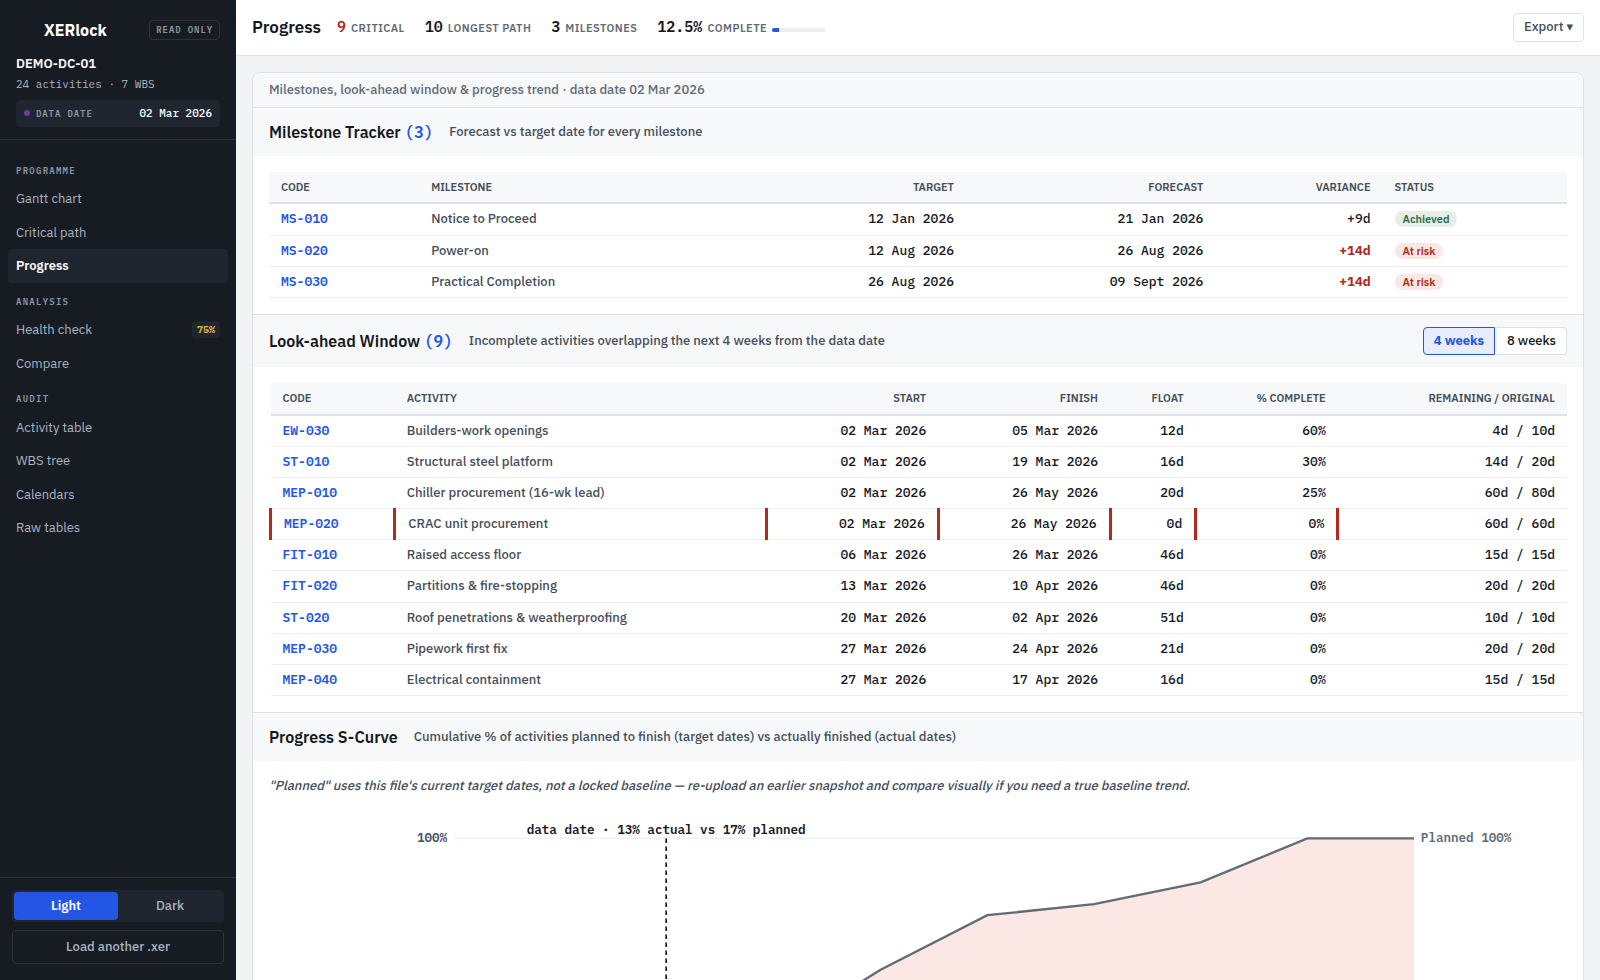
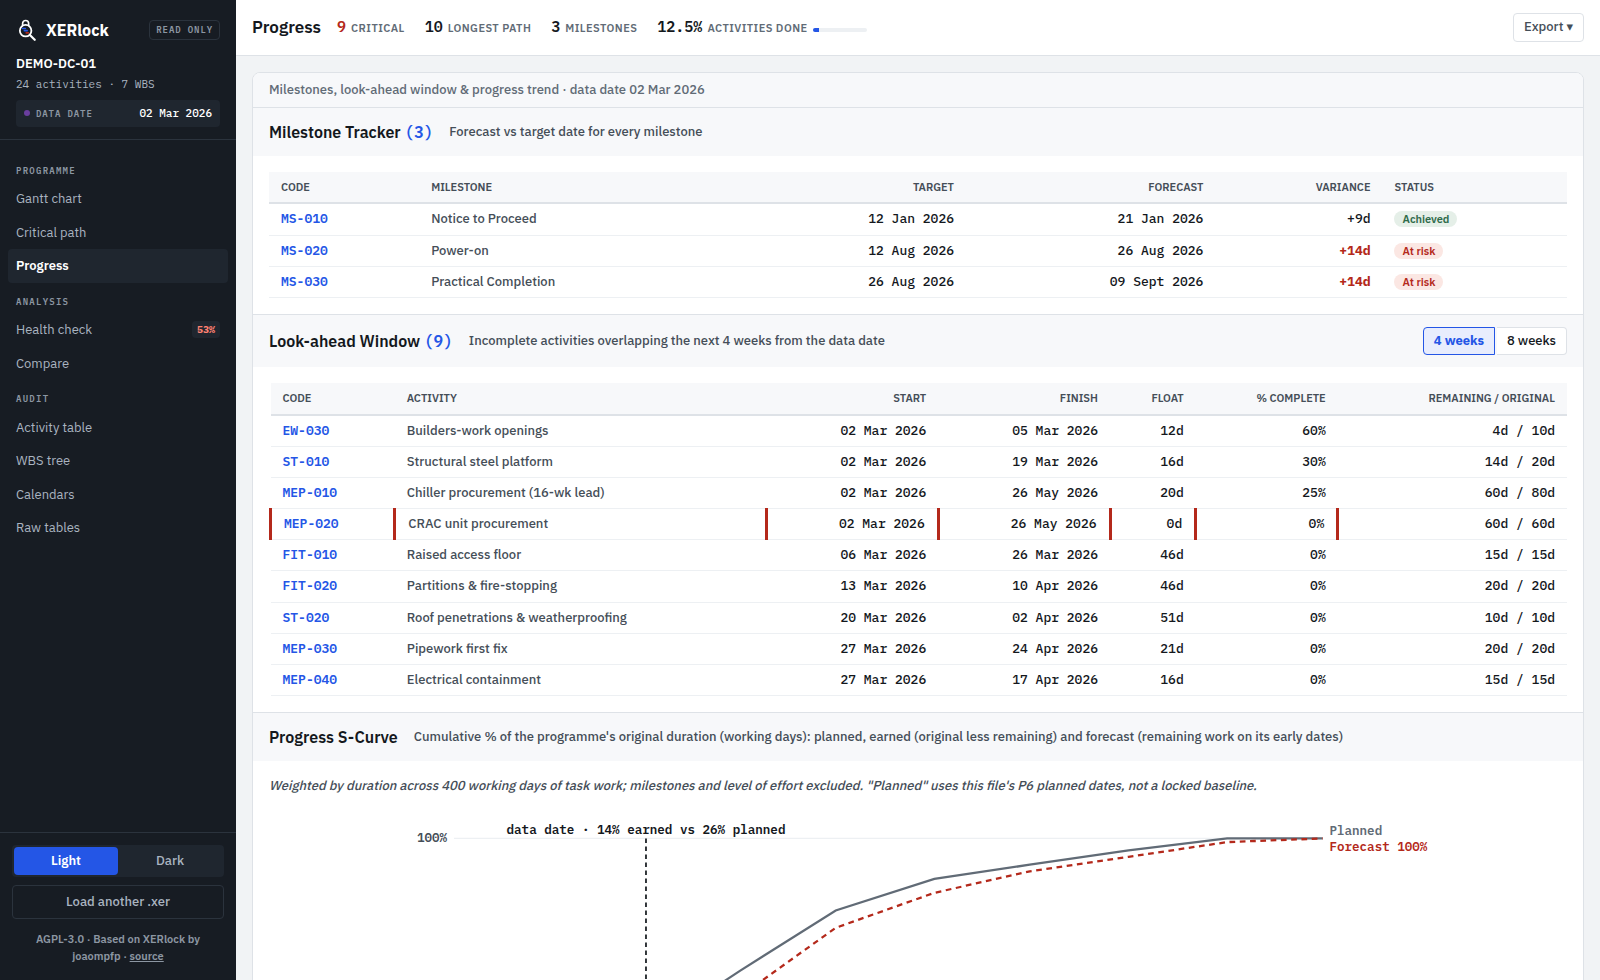
New mark: a magnifying glass whose lens is a padlock, with the schedule inside
The pun in one symbol: investigation (lens), read-only (padlock shackle),
the XER under review (stepped Gantt bars, the last in critical-path red).
Explored with fal Recraft V3 concepts, then drawn by hand as a 32-unit SVG
so it stays crisp down to a 16 px favicon.
- favicon.svg switches palette with prefers-color-scheme.
- Sidebar mark uses theme tokens (nav ink, accent, crit).
- og.png: new 1200x630 share card (was a pre-redesign screenshot).
- README header logo; screenshots regenerated from the synthetic sample
  (new mark, 'Activities done', AGPL footer). compare.png unchanged.

Claude-Session: https://claude.ai/code/session_01Pfi8yuhCLTRMYkPi2msGgy

diff --git a/frontend/src/App.vue b/frontend/src/App.vue
@@ -68,8 +68,14 @@
       <aside class="sidebar" :class="{ open: navOpen }" id="app-sidebar">
         <div class="sb-brand">
           <a class="sb-logo" href="https://github.com/joaompfp/xerlock" target="_blank" rel="noopener" title="XERlock on GitHub">
-            <svg width="20" height="20" viewBox="0 0 24 24" fill="none" stroke-width="1.8">
-              <rect x="3" y="3" width="18" height="18" rx="2" /><path d="M3 9h18" /><path d="M9 3v18" /><path d="M7 12l2 2 4-4" />
+            <!-- The mark (public/favicon.svg) drawn with theme tokens so it re-colours with the app. -->
+            <svg class="xl-mark" width="22" height="22" viewBox="0 0 32 32" fill="none" aria-hidden="true">
+              <path d="M9.6 10V6.6a4.4 4.4 0 0 1 8.8 0V10" stroke="currentColor" stroke-width="2.4" stroke-linecap="round" />
+              <circle cx="14" cy="17" r="8.4" stroke="currentColor" stroke-width="2.6" fill="var(--nav)" />
+              <path d="M20.2 23.2l7 7" stroke="currentColor" stroke-width="3.2" stroke-linecap="round" />
+              <rect x="8.4" y="12.6" width="6.4" height="2.4" rx="1.2" fill="var(--accent)" />
+              <rect x="11" y="15.8" width="6.4" height="2.4" rx="1.2" fill="var(--accent)" />
+              <rect x="13.6" y="19" width="5.6" height="2.4" rx="1.2" fill="var(--crit)" />
             </svg>
             <span>XERlock</span>
           </a>
@@ -1308,7 +1314,7 @@ th.num { text-align: right !important; }
 }
 .sb-brand { display: flex; align-items: center; gap: var(--space-2); padding: 18px var(--space-4) var(--space-3); }
 .sb-logo { display: flex; align-items: center; gap: var(--space-2); color: var(--nav-ink); text-decoration: none; font-size: 16px; font-weight: 700; }
-.sb-logo svg { color: var(--accent); flex: none; }
+.sb-logo svg { color: var(--nav-ink); flex: none; }
 .sb-readonly { margin-left: auto; font-family: var(--font-mono); font-size: 9px; font-weight: 600; text-transform: uppercase; letter-spacing: 0.1em; color: var(--nav-ink-3); border: 1px solid var(--nav-line); border-radius: 4px; padding: 2px 6px; white-space: nowrap; }
 
 .sb-project { padding: 0 var(--space-4) var(--space-3); border-bottom: 1px solid var(--nav-line); }

diff --git a/README.md b/README.md
@@ -1,3 +1,5 @@
+<img src="docs/logo.svg" width="72" alt="XERlock: a magnifying glass whose lens is a padlock, with schedule bars inside" align="left">
+
 # XERlock
 
 ![License: AGPL-3.0](https://img.shields.io/badge/license-AGPL--3.0-blue) ![Python 3.10+](https://img.shields.io/badge/python-3.10%2B-3776AB) ![Vue 3](https://img.shields.io/badge/vue-3-42b883) ![Self-hosted](https://img.shields.io/badge/self--hosted-yes-8250df)
